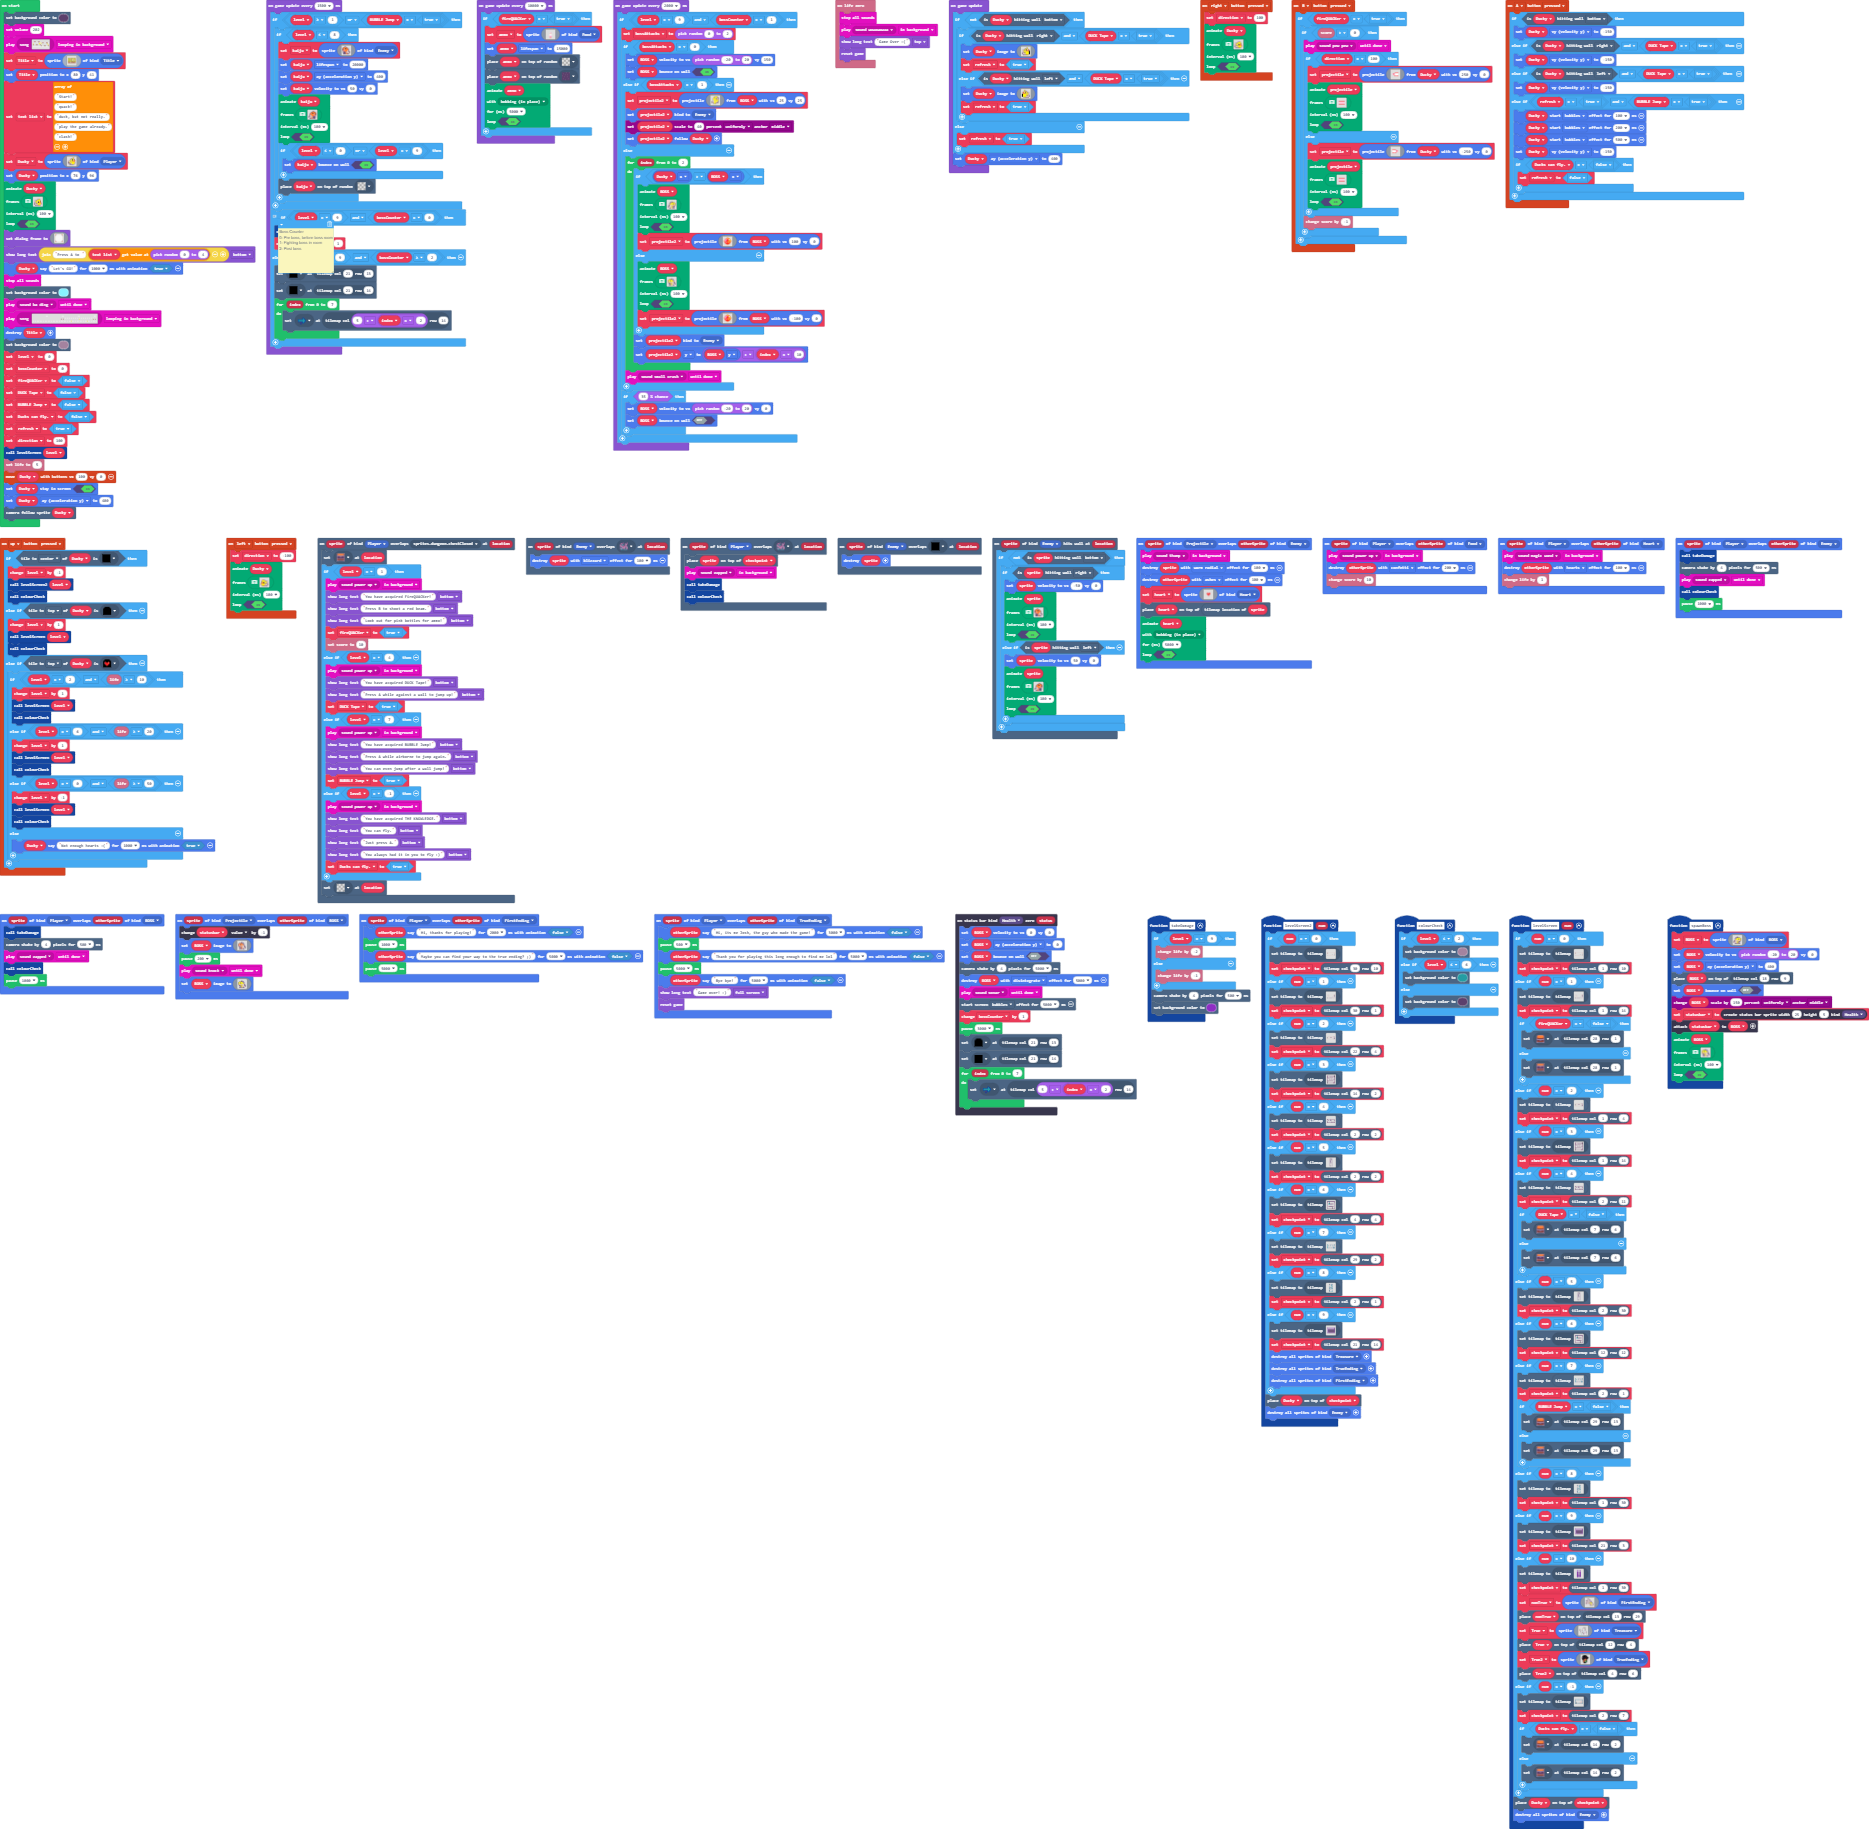
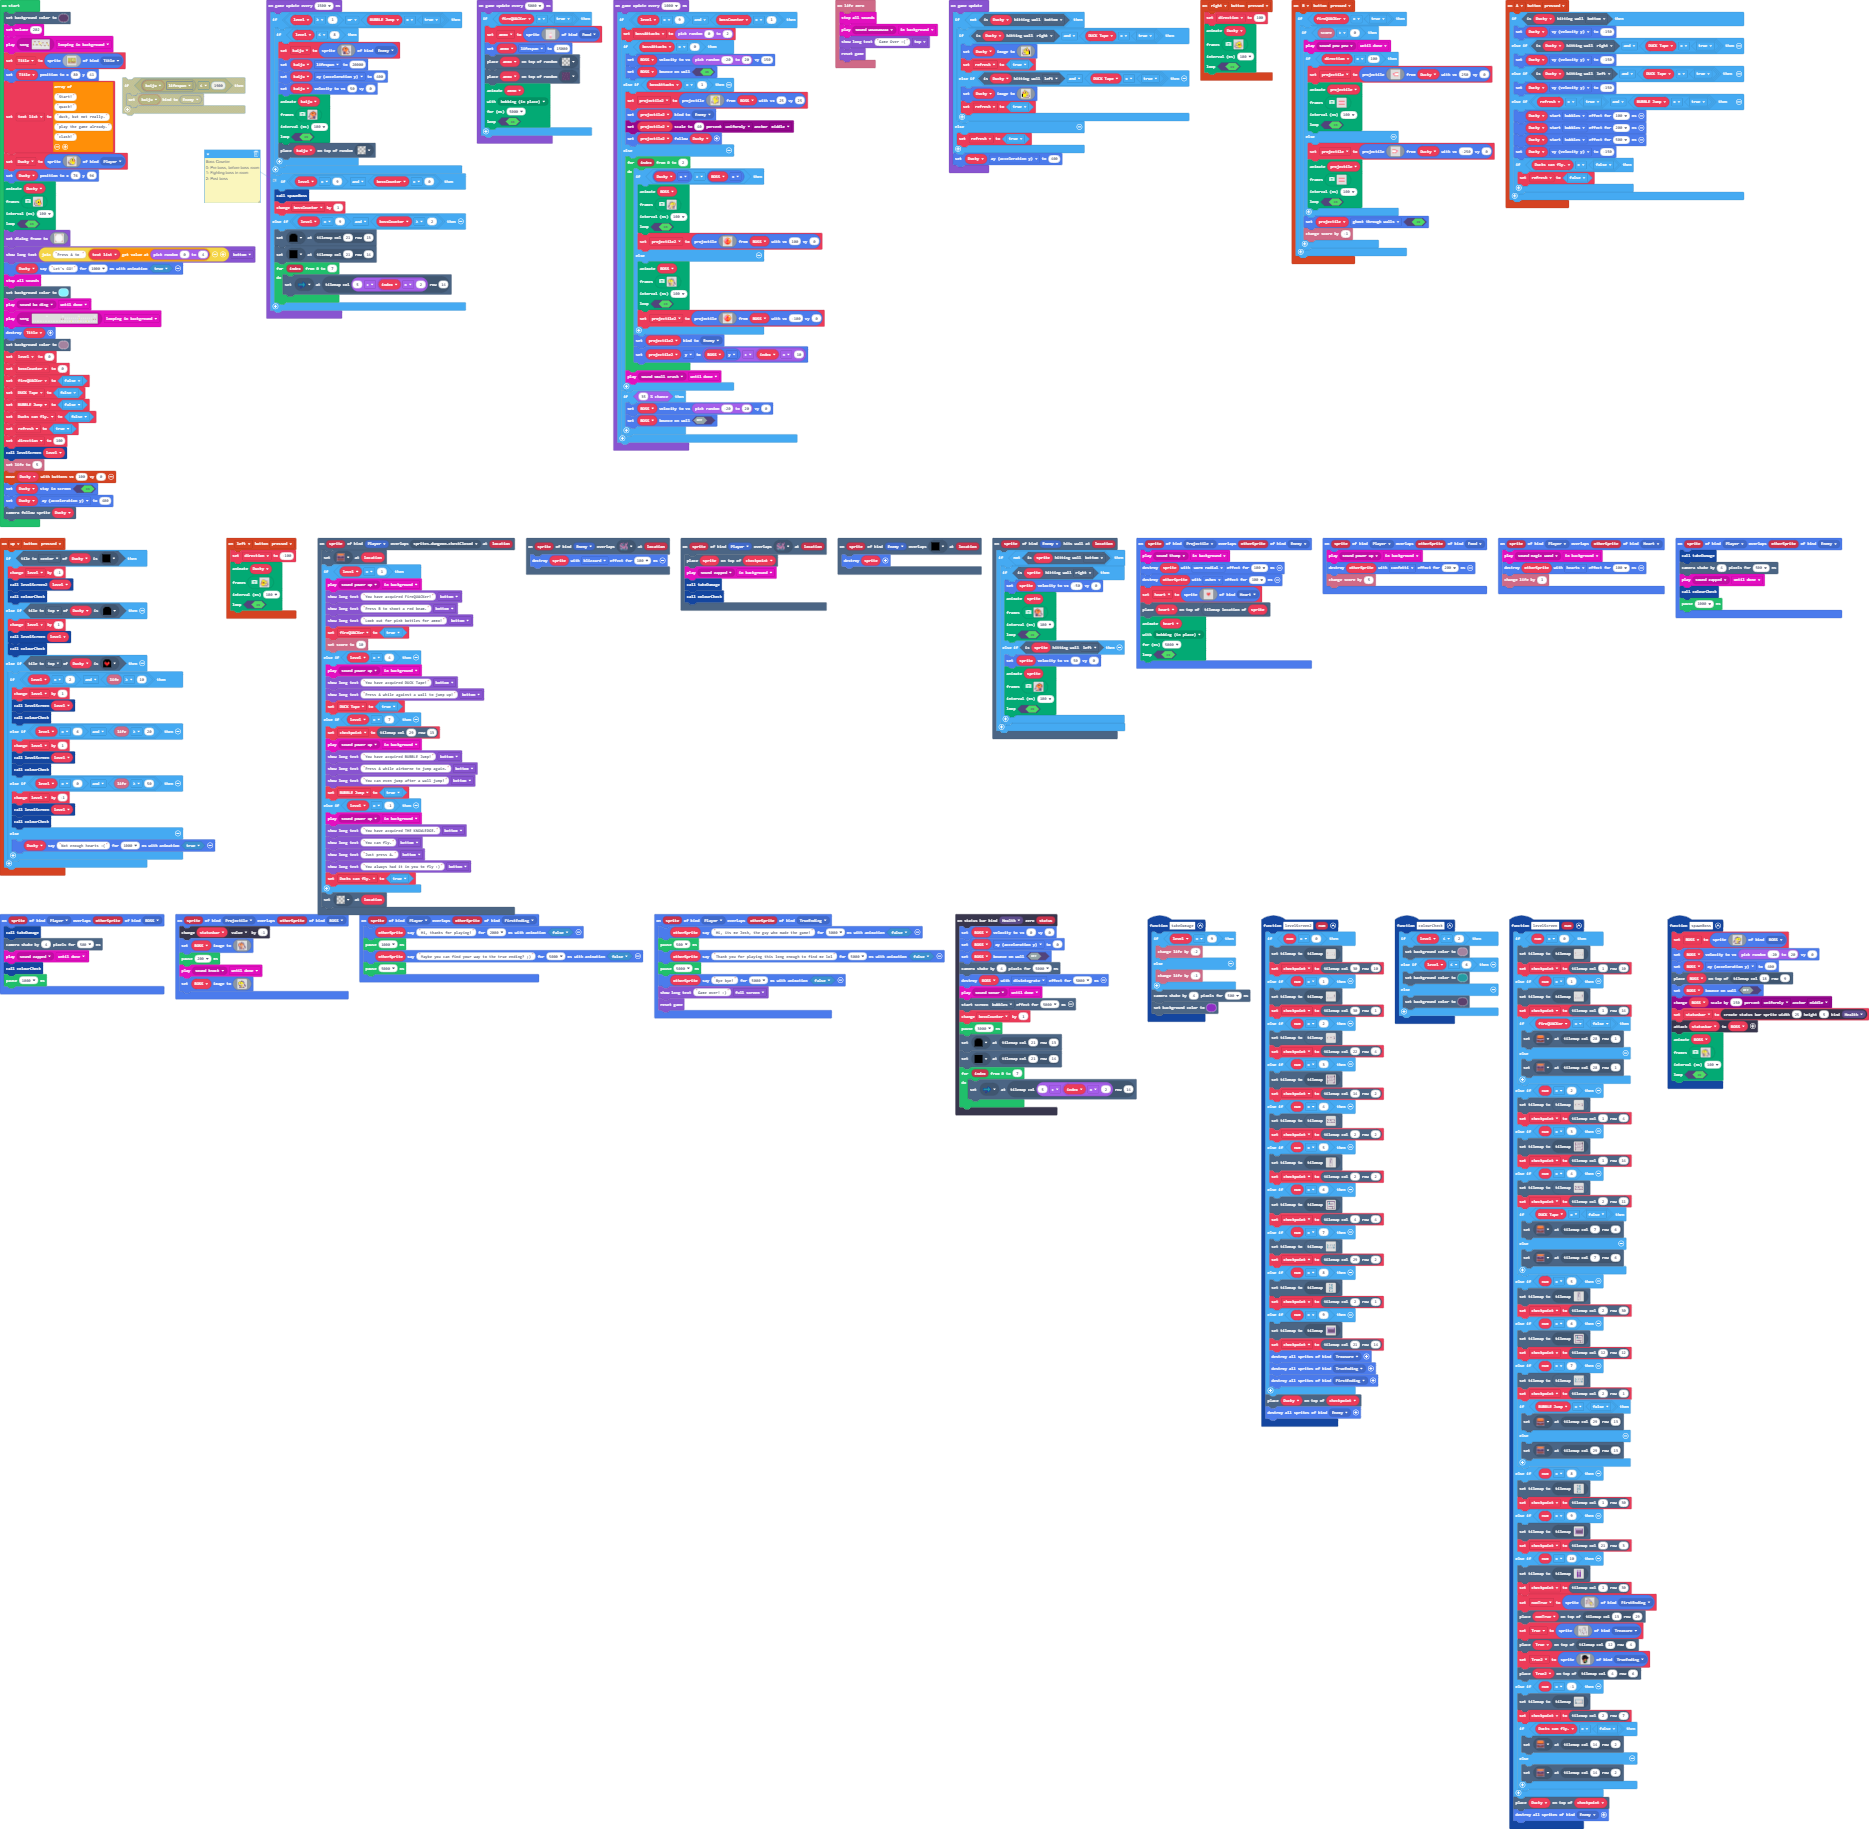
, no boucing kaiju, shoot thru walls.

Changed region(s): [[0.0621, 0.0312, 0.2483, 0.2182], [0.1552, 0.374, 0.2793, 0.4986], [0.6827, 0.0935, 0.7758, 0.1558]]

diff --git a/main.ts b/main.ts
@@ -415,6 +415,7 @@ controller.B.onEvent(ControllerButtonEvent.Pressed, function () {
                 true
                 )
             }
+            projectile.setFlag(SpriteFlag.GhostThroughWalls, true)
             info.changeScoreBy(-1)
         }
     }
@@ -702,6 +703,7 @@ scene.onOverlapTile(SpriteKind.Player, sprites.dungeon.chestClosed, function (sp
         game.showLongText("Press A while against a wall to jump up!", DialogLayout.Bottom)
         DUCK_Tape = true
     } else if (level == 7) {
+        checkpoint = tiles.getTileLocation(29, 13)
         music.play(music.melodyPlayable(music.powerUp), music.PlaybackMode.InBackground)
         game.showLongText("You have acquired BUBBLE Jump!", DialogLayout.Bottom)
         game.showLongText("Press A while airborne to jump again.", DialogLayout.Bottom)
@@ -1293,7 +1295,7 @@ info.onLifeZero(function () {
 sprites.onOverlap(SpriteKind.Player, SpriteKind.Food, function (sprite, otherSprite) {
     music.play(music.melodyPlayable(music.powerUp), music.PlaybackMode.InBackground)
     sprites.destroy(otherSprite, effects.confetti, 200)
-    info.changeScoreBy(10)
+    info.changeScoreBy(5)
 })
 scene.onOverlapTile(SpriteKind.Enemy, assets.tile`bottom door`, function (sprite, location) {
     sprites.destroy(sprite)
@@ -1339,10 +1341,10 @@ sprites.onOverlap(SpriteKind.Player, SpriteKind.Enemy, function (sprite, otherSp
     colourCheck()
     pause(1000)
 })
-let ammo: Sprite = null
 let kaiju: Sprite = null
 let projectile2: Sprite = null
 let bossAttacks = 0
+let ammo: Sprite = null
 let heart: Sprite = null
 let True2: Sprite = null
 let True: Sprite = null
@@ -1707,7 +1709,42 @@ game.onUpdate(function () {
     }
     Ducky.ay = 400
 })
-game.onUpdateInterval(2000, function () {
+game.onUpdateInterval(5000, function () {
+    if (fireQUACKer == true) {
+        ammo = sprites.create(img`
+            ....................
+            ....................
+            ....................
+            ....................
+            ....................
+            ....................
+            ........1133........
+            ........3333........
+            .........44.........
+            ........1111........
+            ........1111........
+            .......111111.......
+            .......111111.......
+            .......111111.......
+            .......333333.......
+            .......333333.......
+            .......333333.......
+            ........3333........
+            ........4444........
+            ....................
+            `, SpriteKind.Food)
+        ammo.lifespan = 15000
+        tiles.placeOnRandomTile(ammo, assets.tile`transparency16`)
+        tiles.placeOnRandomTile(ammo, sprites.dungeon.darkGroundCenter)
+        animation.runMovementAnimation(
+        ammo,
+        animation.animationPresets(animation.bobbing),
+        5000,
+        true
+        )
+    }
+})
+game.onUpdateInterval(1000, function () {
     if (level == 9 && bossCounter == 1) {
         bossAttacks = randint(0, 2)
         if (bossAttacks == 0) {
@@ -2245,9 +2282,6 @@ game.onUpdateInterval(1500, function () {
             100,
             true
             )
-            if (level <= 0 || level == 9) {
-                kaiju.setBounceOnWall(true)
-            }
             tiles.placeOnRandomTile(kaiju, assets.tile`transparency16`)
         }
     }
@@ -2264,40 +2298,5 @@ game.onUpdateInterval(1500, function () {
         for (let index = 0; index <= 7; index++) {
             tiles.setTileAt(tiles.getTileLocation(5 + index * 2, 14), assets.tile`myTile0`)
         }
-    }
-})
-game.onUpdateInterval(10000, function () {
-    if (fireQUACKer == true) {
-        ammo = sprites.create(img`
-            ....................
-            ....................
-            ....................
-            ....................
-            ....................
-            ....................
-            ........1133........
-            ........3333........
-            .........44.........
-            ........1111........
-            ........1111........
-            .......111111.......
-            .......111111.......
-            .......111111.......
-            .......333333.......
-            .......333333.......
-            .......333333.......
-            ........3333........
-            ........4444........
-            ....................
-            `, SpriteKind.Food)
-        ammo.lifespan = 15000
-        tiles.placeOnRandomTile(ammo, assets.tile`transparency16`)
-        tiles.placeOnRandomTile(ammo, sprites.dungeon.darkGroundCenter)
-        animation.runMovementAnimation(
-        ammo,
-        animation.animationPresets(animation.bobbing),
-        5000,
-        true
-        )
     }
 })
